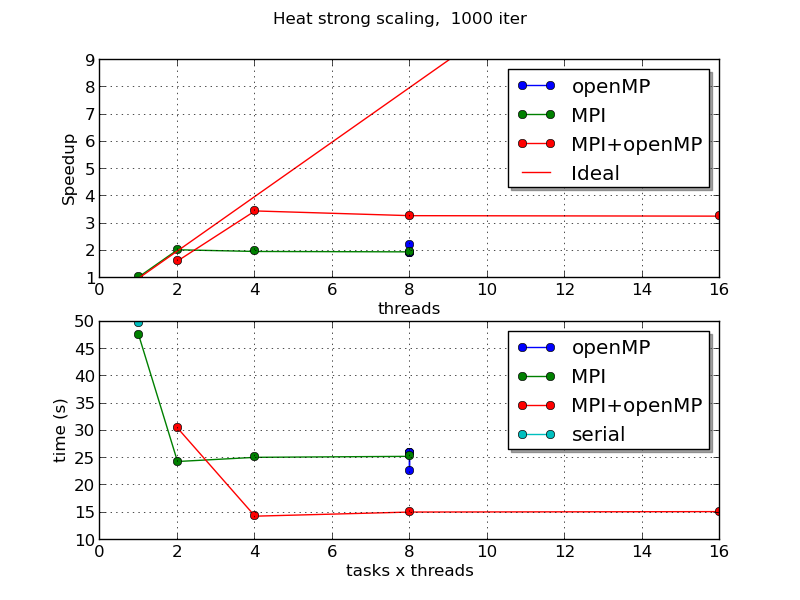
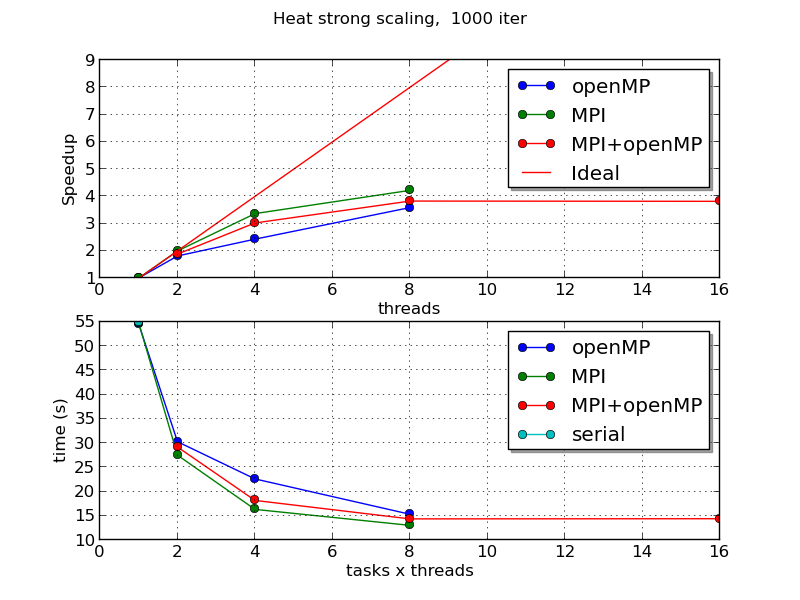
mpi+omp/heat fixes

diff --git a/PP&HPC/openMP/heat/omp_heat.c b/PP&HPC/openMP/heat/omp_heat.c
@@ -13,6 +13,7 @@ icc -O2 heat.c -o heat
 #include <math.h>
 #include <stdlib.h>
 #include <unistd.h>
+#include <getopt.h>
 #include <string.h>
 #include <sys/time.h>  //gettimeofday
 #include <omp.h>
@@ -47,6 +48,11 @@ int main(int argc, char **argv)
     options(argc, argv);         /* optarg management */
 
     omp_set_num_threads(THREADS);
+
+    #pragma omp parallel 
+    {
+        actual_threads = omp_get_num_threads();
+    }
 
     float *h_T_new = (float *) calloc(NX * NY, sizeof(float));
     float *h_T_old = (float *) calloc(NX * NY, sizeof(float));
@@ -97,26 +103,15 @@ void Jacobi_Iterator_CPU(float * __restrict T, float * __restrict T_new, const i
 {
     int i,j;
 
-#pragma omp parallel private(i) shared(j, T, T_new)
-    {
-
-#pragma omp single
-        {
-            if (actual_threads == -1) {
-                actual_threads = omp_get_num_threads();
-            }
-        }
-
-#pragma omp for schedule(static)
-        for(j=1; j<NY-1; j++) {
-            //fprintf(stderr, "# Thr: %d / %d ", omp_get_thread_num(), omp_get_num_threads());
-            for(i=1; i<NX-1; i++) {
-                float T_E = T[(i+1) + NX*j];
-                float T_W = T[(i-1) + NX*j];
-                float T_N = T[i + NX*(j+1)];
-                float T_S = T[i + NX*(j-1)];
-                T_new[NX*j + i] = 0.25*(T_E + T_W + T_N + T_S); //Normalize back to 0..1 interval [temp is based on the 4 adjacent cells]
-            }
+    #pragma omp parallel for private(i) schedule(static)
+    for(j=1; j<NY-1; j++) {
+        //fprintf(stderr, "# Thr: %d / %d ", omp_get_thread_num(), omp_get_num_threads());
+        for(i=1; i<NX-1; i++) {
+            float T_E = T[(i+1) + NX*j];
+            float T_W = T[(i-1) + NX*j];
+            float T_N = T[i + NX*(j+1)];
+            float T_S = T[i + NX*(j-1)];
+            T_new[NX*j + i] = 0.25*(T_E + T_W + T_N + T_S); //Normalize back to 0..1 interval [temp is based on the 4 adjacent cells]
         }
     }
 }

diff --git a/PP&HPC/mpi+omp/heat/mpi+omp_heat.c b/PP&HPC/mpi+omp/heat/mpi+omp_heat.c
@@ -33,6 +33,7 @@ void print_colormap(float *__restrict h_T, const int NX, const int NY); //
 int WNX = 256;       // --- Number of discretization points along the x axis
 int WNY = 256;       // --- Number of discretization points along the y axis
 int MAX_ITER = 1000; // --- Number of Jacobi iterations
+int THREADS = -1;     // --- Number of OMP THREADS in execution
 int NX, NY;
 
 // variabili globali per MPI
@@ -64,6 +65,9 @@ int main(int argc, char **argv)
     double t1, t2;
 
     options(argc, argv); /* optarg management */
+
+    if (THREADS > 0)
+        omp_set_num_threads(THREADS);
 
     MPI_Init(&argc, &argv);
     MPI_Comm_rank(MPI_COMM_WORLD, &mpi_rank);
@@ -310,7 +314,7 @@ void options(int argc, char *argv[])
 {
 
     int i;
-    while ((i = getopt(argc, argv, "c:r:s:h")) != -1)
+    while ((i = getopt(argc, argv, "c:r:s:t:h")) != -1)
     {
         switch (i)
         {
@@ -322,6 +326,9 @@ void options(int argc, char *argv[])
             break;
         case 's':
             MAX_ITER = strtol(optarg, NULL, 10);
+            break;
+        case 't':
+            THREADS = strtol(optarg, NULL, 10);  
             break;
         case 'h':
             usage(argv);
